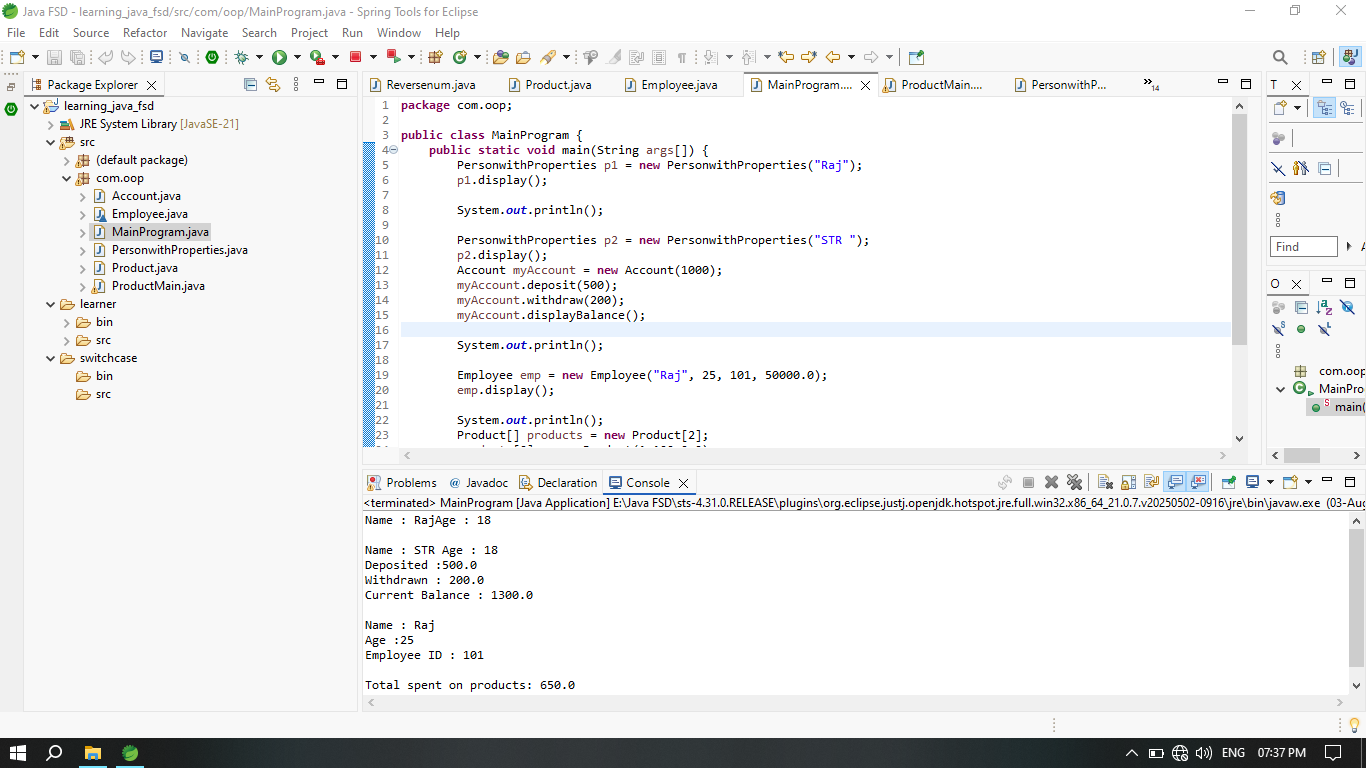
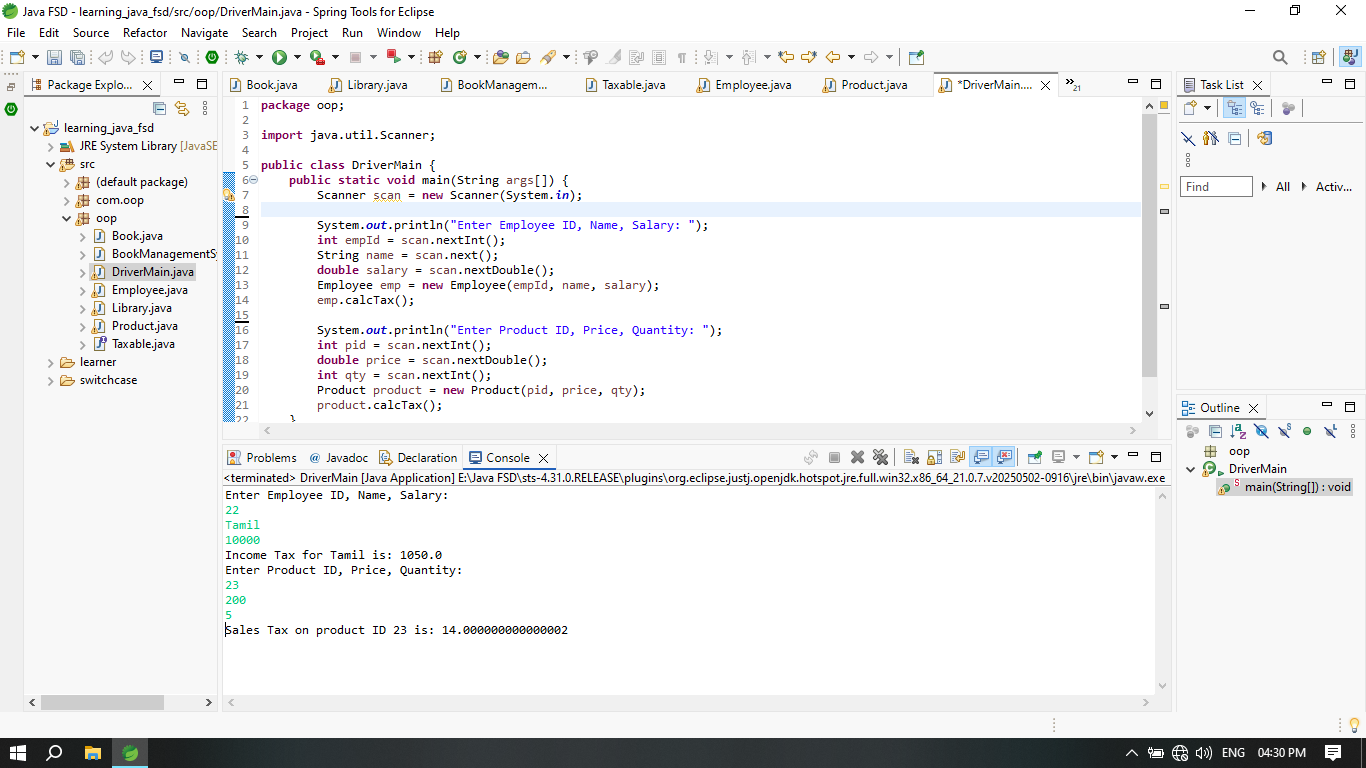
Add files via upload

diff --git a/BookManagementSystem.java b/BookManagementSystem.java
@@ -1,0 +1,83 @@
+package oop;
+
+import java.util.Scanner;
+public class BookManagementSystem {
+	public static void main(String args[]) {
+		        Library library = new Library();
+		        Scanner scan = new Scanner(System.in);
+		        int choice;
+
+		        do {
+		            System.out.println("\n--- Library Menu ---");
+		            System.out.println("1. Add Book");
+		            System.out.println("2. Replace Book");
+		            System.out.println("3. Remove Book");
+		            System.out.println("4. Search Book");
+		            System.out.println("5. Display All Books");
+		            System.out.println("6. Exit");
+		            System.out.print("Enter your choice: ");
+		            choice = scan.nextInt();
+
+		            switch (choice) {
+		                case 1:
+		                    System.out.print("Enter Book ID: ");
+		                    int id = scan.nextInt();
+		                    scan.nextLine(); // consume newline
+		                    System.out.print("Enter Title: ");
+		                    String title = scan.nextLine();
+		                    System.out.print("Enter Author: ");
+		                    String author = scan.nextLine();
+		                    System.out.print("Is Available (true/false): ");
+		                    boolean isAvailable = scan.nextBoolean();
+		                    Book book = new Book(id, title, author, isAvailable);
+		                    library.addBook(book);
+		                    break;
+
+		                case 2:
+		                    System.out.print("Enter Book ID to replace: ");
+		                    int replaceID = scan.nextInt();
+		                    scan.nextLine();
+		                    System.out.print("Enter New Title: ");
+		                    String newTitle = scan.nextLine();
+		                    System.out.print("Enter New Author: ");
+		                    String newAuthor = scan.nextLine();
+		                    System.out.print("Is Available (true/false): ");
+		                    boolean newAvailability = scan.nextBoolean();
+		                    Book newBook = new Book(replaceID, newTitle, newAuthor, newAvailability);
+		                    library.replaceBook(replaceID, newBook);
+		                    break;
+
+		                case 3:
+		                    System.out.print("Enter Book ID to remove: ");
+		                    int removeID = scan.nextInt();
+		                    library.removeBook(removeID);
+		                    break;
+
+		                case 4:
+		                    System.out.print("Enter Book ID to search: ");
+		                    int searchID = scan.nextInt();
+		                    Book foundBook = library.searchBook(searchID);
+		                    if (foundBook != null)
+		                        System.out.println("Book Found: " + foundBook);
+		                    else
+		                        System.out.println("Book not found.");
+		                    break;
+
+		                case 5:
+		                    System.out.println("All Books:");
+		                    library.displayBooks();
+		                    break;
+
+		                case 6:
+		                    System.out.println("Exiting system.");
+		                    break;
+
+		                default:
+		                    System.out.println("Invalid choice.");
+		            }
+		        } while (choice != 6);
+
+		        scan.close();
+		    }
+		}
+	

diff --git a/Library.java b/Library.java
@@ -1,0 +1,65 @@
+package oop;
+
+import java.util.ArrayList;
+
+public class Library {
+	private Book[] books;
+	private int count;
+	
+	public Library() {
+	this.books = new Book[5];
+	count = 0;
+	}
+	
+	public void addBook(Book book) {
+	    if(count< books.length) {
+	       books[count] = book;
+	       count++;
+	       System.out.println("Book added successfully.");
+	    }
+	    else {
+	    	System.out.println("Libray is full. cannot add more books. ");
+	    	return;
+	    }
+	   
+	}
+	public void replaceBook(int bookID, Book newBook) {
+		for(int i = 0; i<count; i++) {
+			if (books[i].getBookID() == bookID) {
+			    books[i] = newBook;
+				System.out.println("Book replaced successfully. ");
+				return;
+			}
+		}
+		System.out.println("Book ID not found. ");
+	}
+		
+		public void displayBooks() {
+			for(int i = 0; i<count; i++) {
+				System.out.println(i);
+			}
+		}
+		public  Book searchBook(int bookID) {
+			for(int i = 0; i<count; i++) {
+			if(books[i].getBookID() == bookID){
+				return books[i];
+			}
+		}
+			return null;
+		}
+		public void removeBook(int bookID) {
+			for(int i = 0; i<count; i++) {
+				if(books[i].getBookID() == bookID) {
+					for(int j = i; j<count-1; j++) {
+						books[j] = books[j+1];
+					}
+					books[count-1] = null;
+					count--;
+					System.out.println("Book removed successfully. ");
+					return;
+					
+				}		
+			}
+			System.out.println("Book ID not found. ");
+	}
+}

diff --git a/Employee.java b/Employee.java
@@ -1,26 +1,18 @@
-package com.oop;
+package oop;
 
-class Person {
-	String name;
-	int age;
-	
-	public Person(String name, int age) {
-		this.name = name;
-		this.age = age;
-	}
-}
-class Employee extends Person {
-	int employeeID;
-	double salary;
+public class Employee implements Taxable {
+    private int empId;
+    private String name;
+    private double salary;
 
-    public Employee(String name, int age, int employeeID, double salary) {
-	super(name, age);
-	this.employeeID = employeeID;
-	this.salary = salary;
-}
-public void display() {
-	System.out.println("Name : " + name);
-	System.out.println("Age :"+ age);
-	System.out.println("Employee ID : "+ employeeID);
-}
+    public Employee(int empId, String name, double salary) {
+        this.empId = empId;
+        this.name = name;
+        this.salary = salary;
+    }
+
+    public void calcTax() {
+        double tax = salary * incomeTax;
+        System.out.println("Income Tax for " + name + " is: " + tax);
+    }
 }

diff --git a/Book.java b/Book.java
@@ -1,0 +1,27 @@
+package oop;
+
+public class Book {
+	private int bookID;
+	private String title;
+	private String author;
+	private boolean isAvailable;
+	
+	public Book(int bookID, String title, String author, boolean isAvailable) {
+		this.bookID = bookID;
+		this.title = title;
+		this.author = author;
+		this.isAvailable = isAvailable;
+	}
+	
+	public int getBookID() {return bookID; }
+	public String getTitle() {return title; }
+	public String getAuthor() {return author; }
+	public boolean getisAvailable() {return isAvailable; }
+    
+	public void setAvailable(boolean available) {
+		isAvailable = available;
+	}
+	public void displayBook() {
+		System.out.println("ID: " +bookID +",Title: " +title+ ",Author: "+author+",Available: " +isAvailable);
+	}
+}

diff --git a/DriverMain.java b/DriverMain.java
@@ -1,0 +1,23 @@
+package oop;
+
+import java.util.Scanner;
+
+public class DriverMain {
+    public static void main(String args[]) {
+        Scanner scan = new Scanner(System.in);
+
+        System.out.println("Enter Employee ID, Name, Salary: ");
+        int empId = scan.nextInt();
+        String name = scan.next();
+        double salary = scan.nextDouble();
+        Employee emp = new Employee(empId, name, salary);
+        emp.calcTax();
+
+        System.out.println("Enter Product ID, Price, Quantity: ");
+        int pid = scan.nextInt();
+        double price = scan.nextDouble();
+        int qty = scan.nextInt();
+        Product product = new Product(pid, price, qty);
+        product.calcTax();
+    }
+}

diff --git a/Product.java b/Product.java
@@ -1,13 +1,18 @@
-package com.oop;
+package oop;
 
-public class Product {
-	int pid;
-	double price;
-	int quantity;
-	
-	public Product(int pid, double price, int quantity) {
-		this.pid = pid;
-		this.price = price;
-		this.quantity = quantity;
-	}
+public class Product implements Taxable {
+    private int pid;
+    private double price;
+    private int quantity;
+
+    public Product(int pid, double price, int quantity) {
+        this.pid = pid;
+        this.price = price;
+        this.quantity = quantity;
+    }
+
+    public void calcTax() {
+        double tax = price * salesTax;
+        System.out.println("Sales Tax on product ID " + pid + " is: " + tax);
+    }
 }

diff --git a/Taxable.java b/Taxable.java
@@ -1,0 +1,8 @@
+package oop;
+
+public interface Taxable {
+	double salesTax = 0.07;
+	double incomeTax = 0.105;
+
+	void calcTax();
+}
